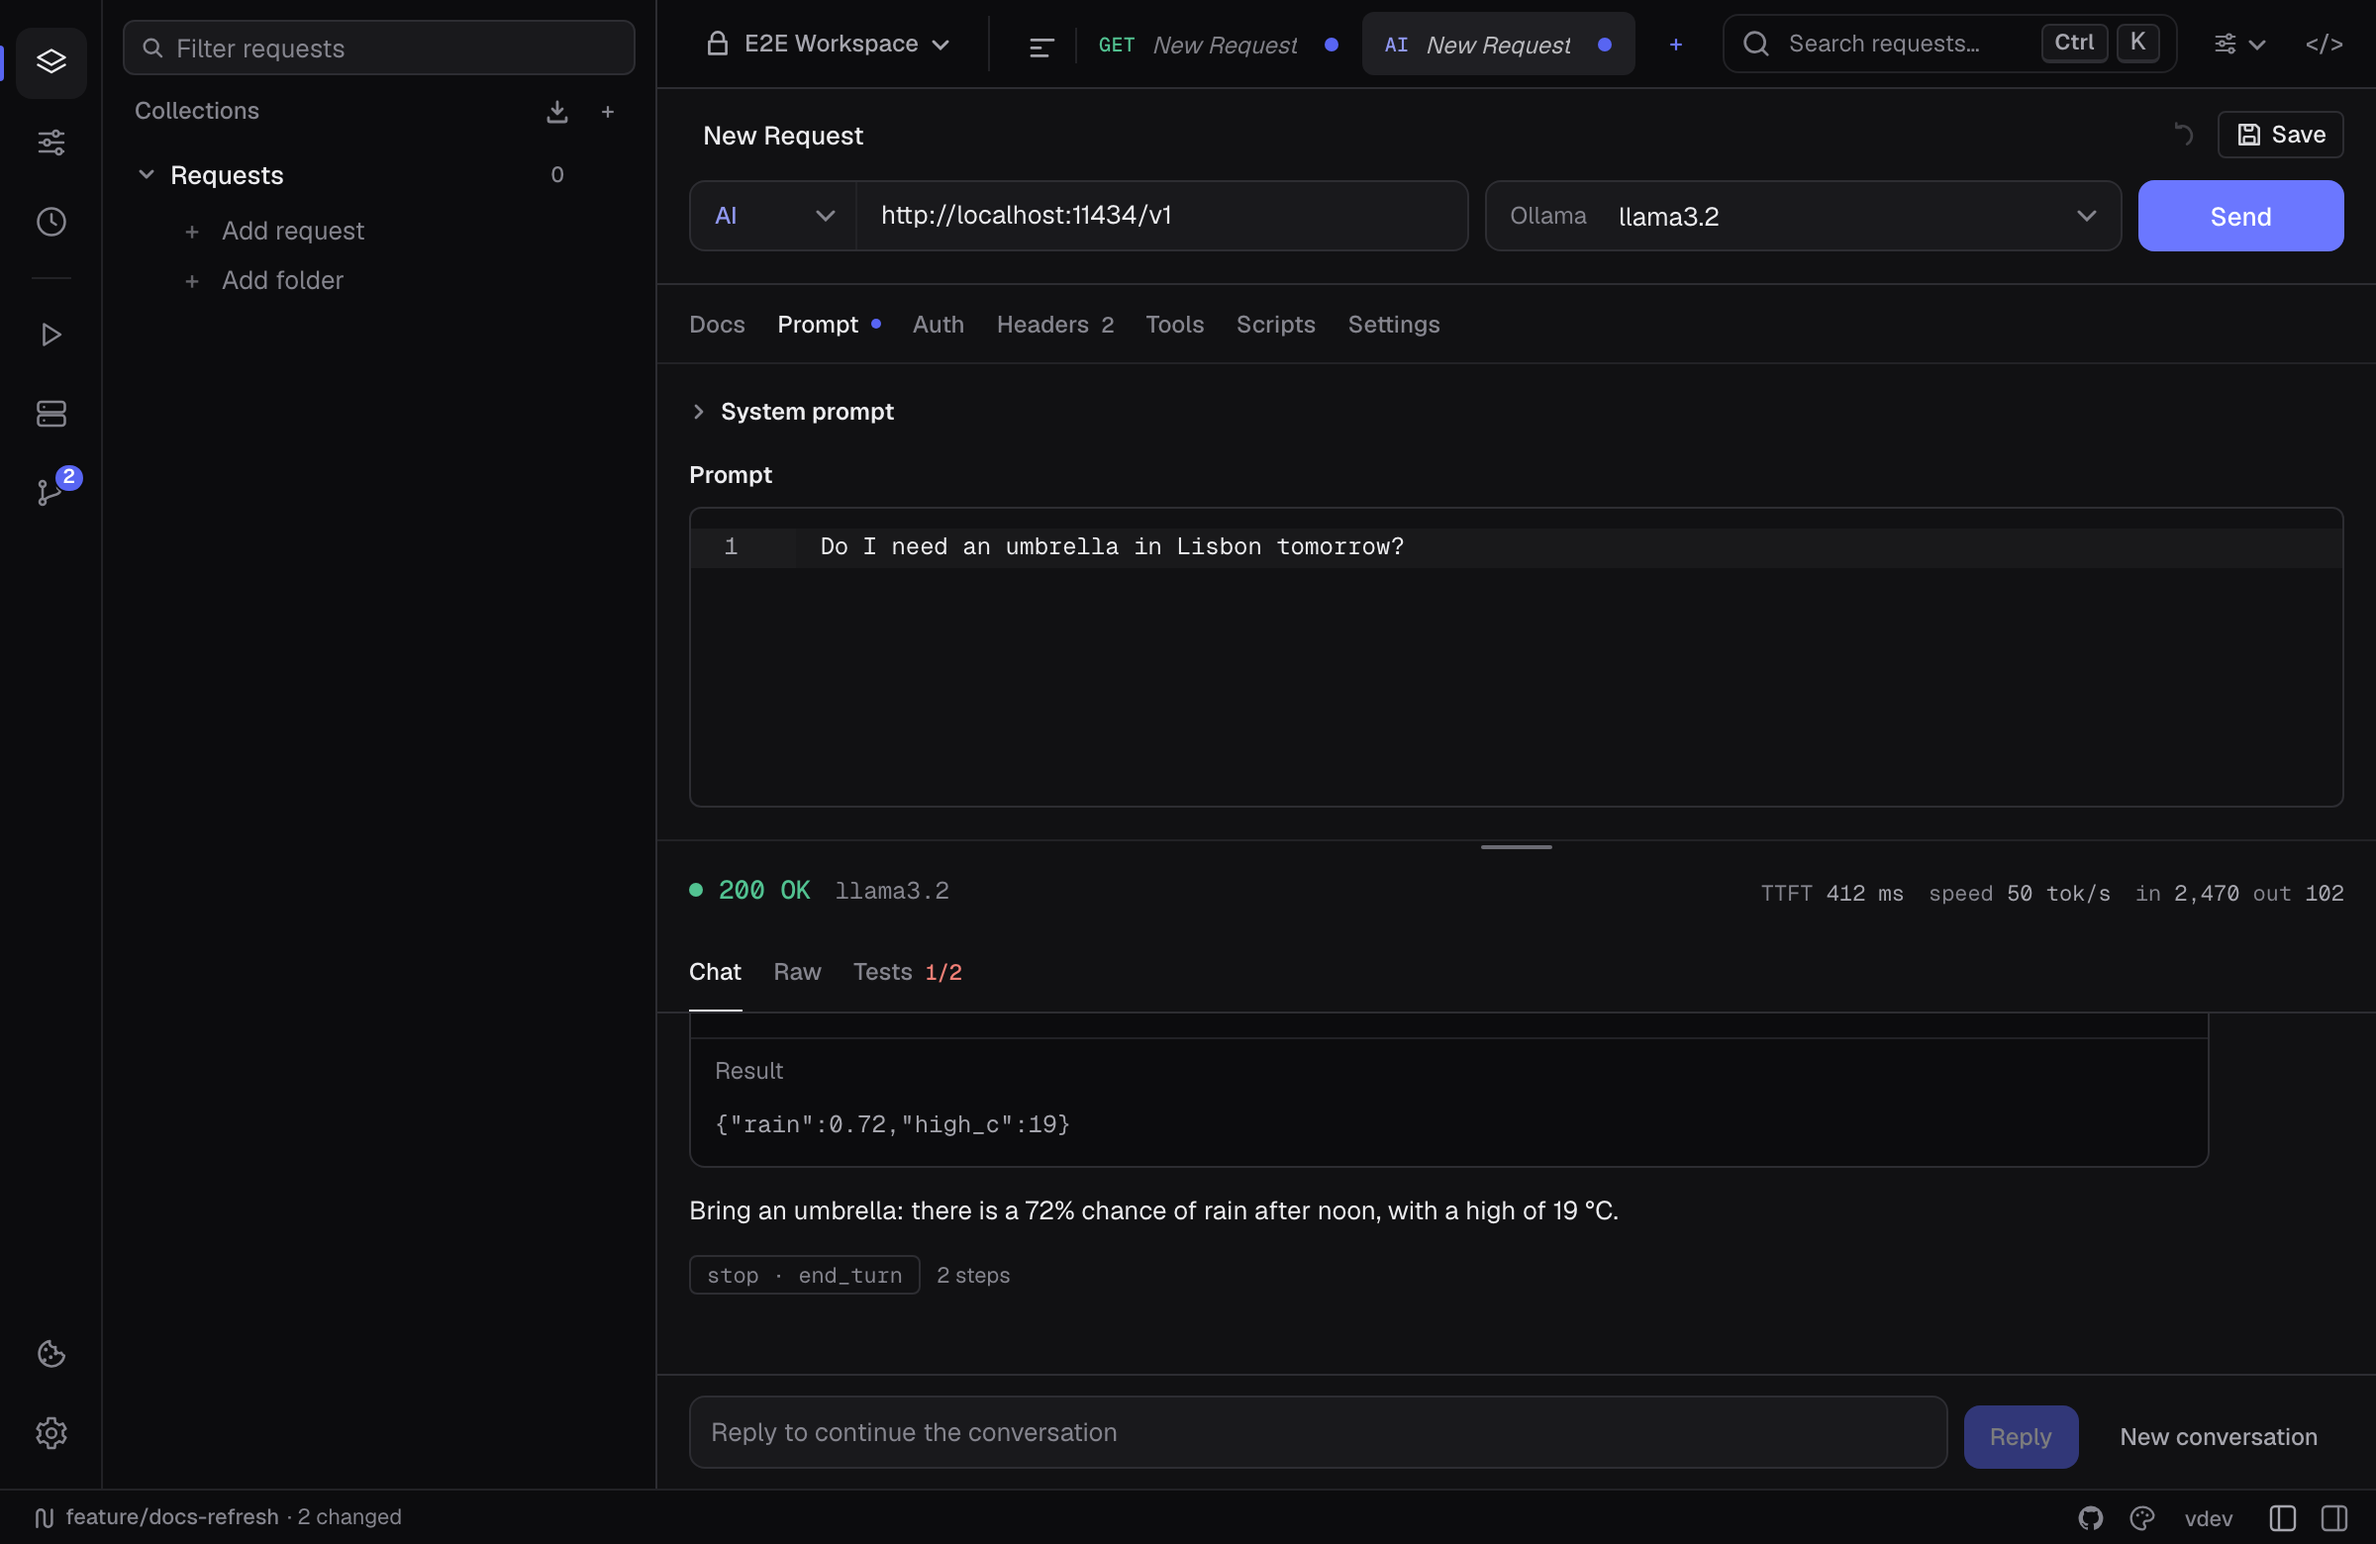
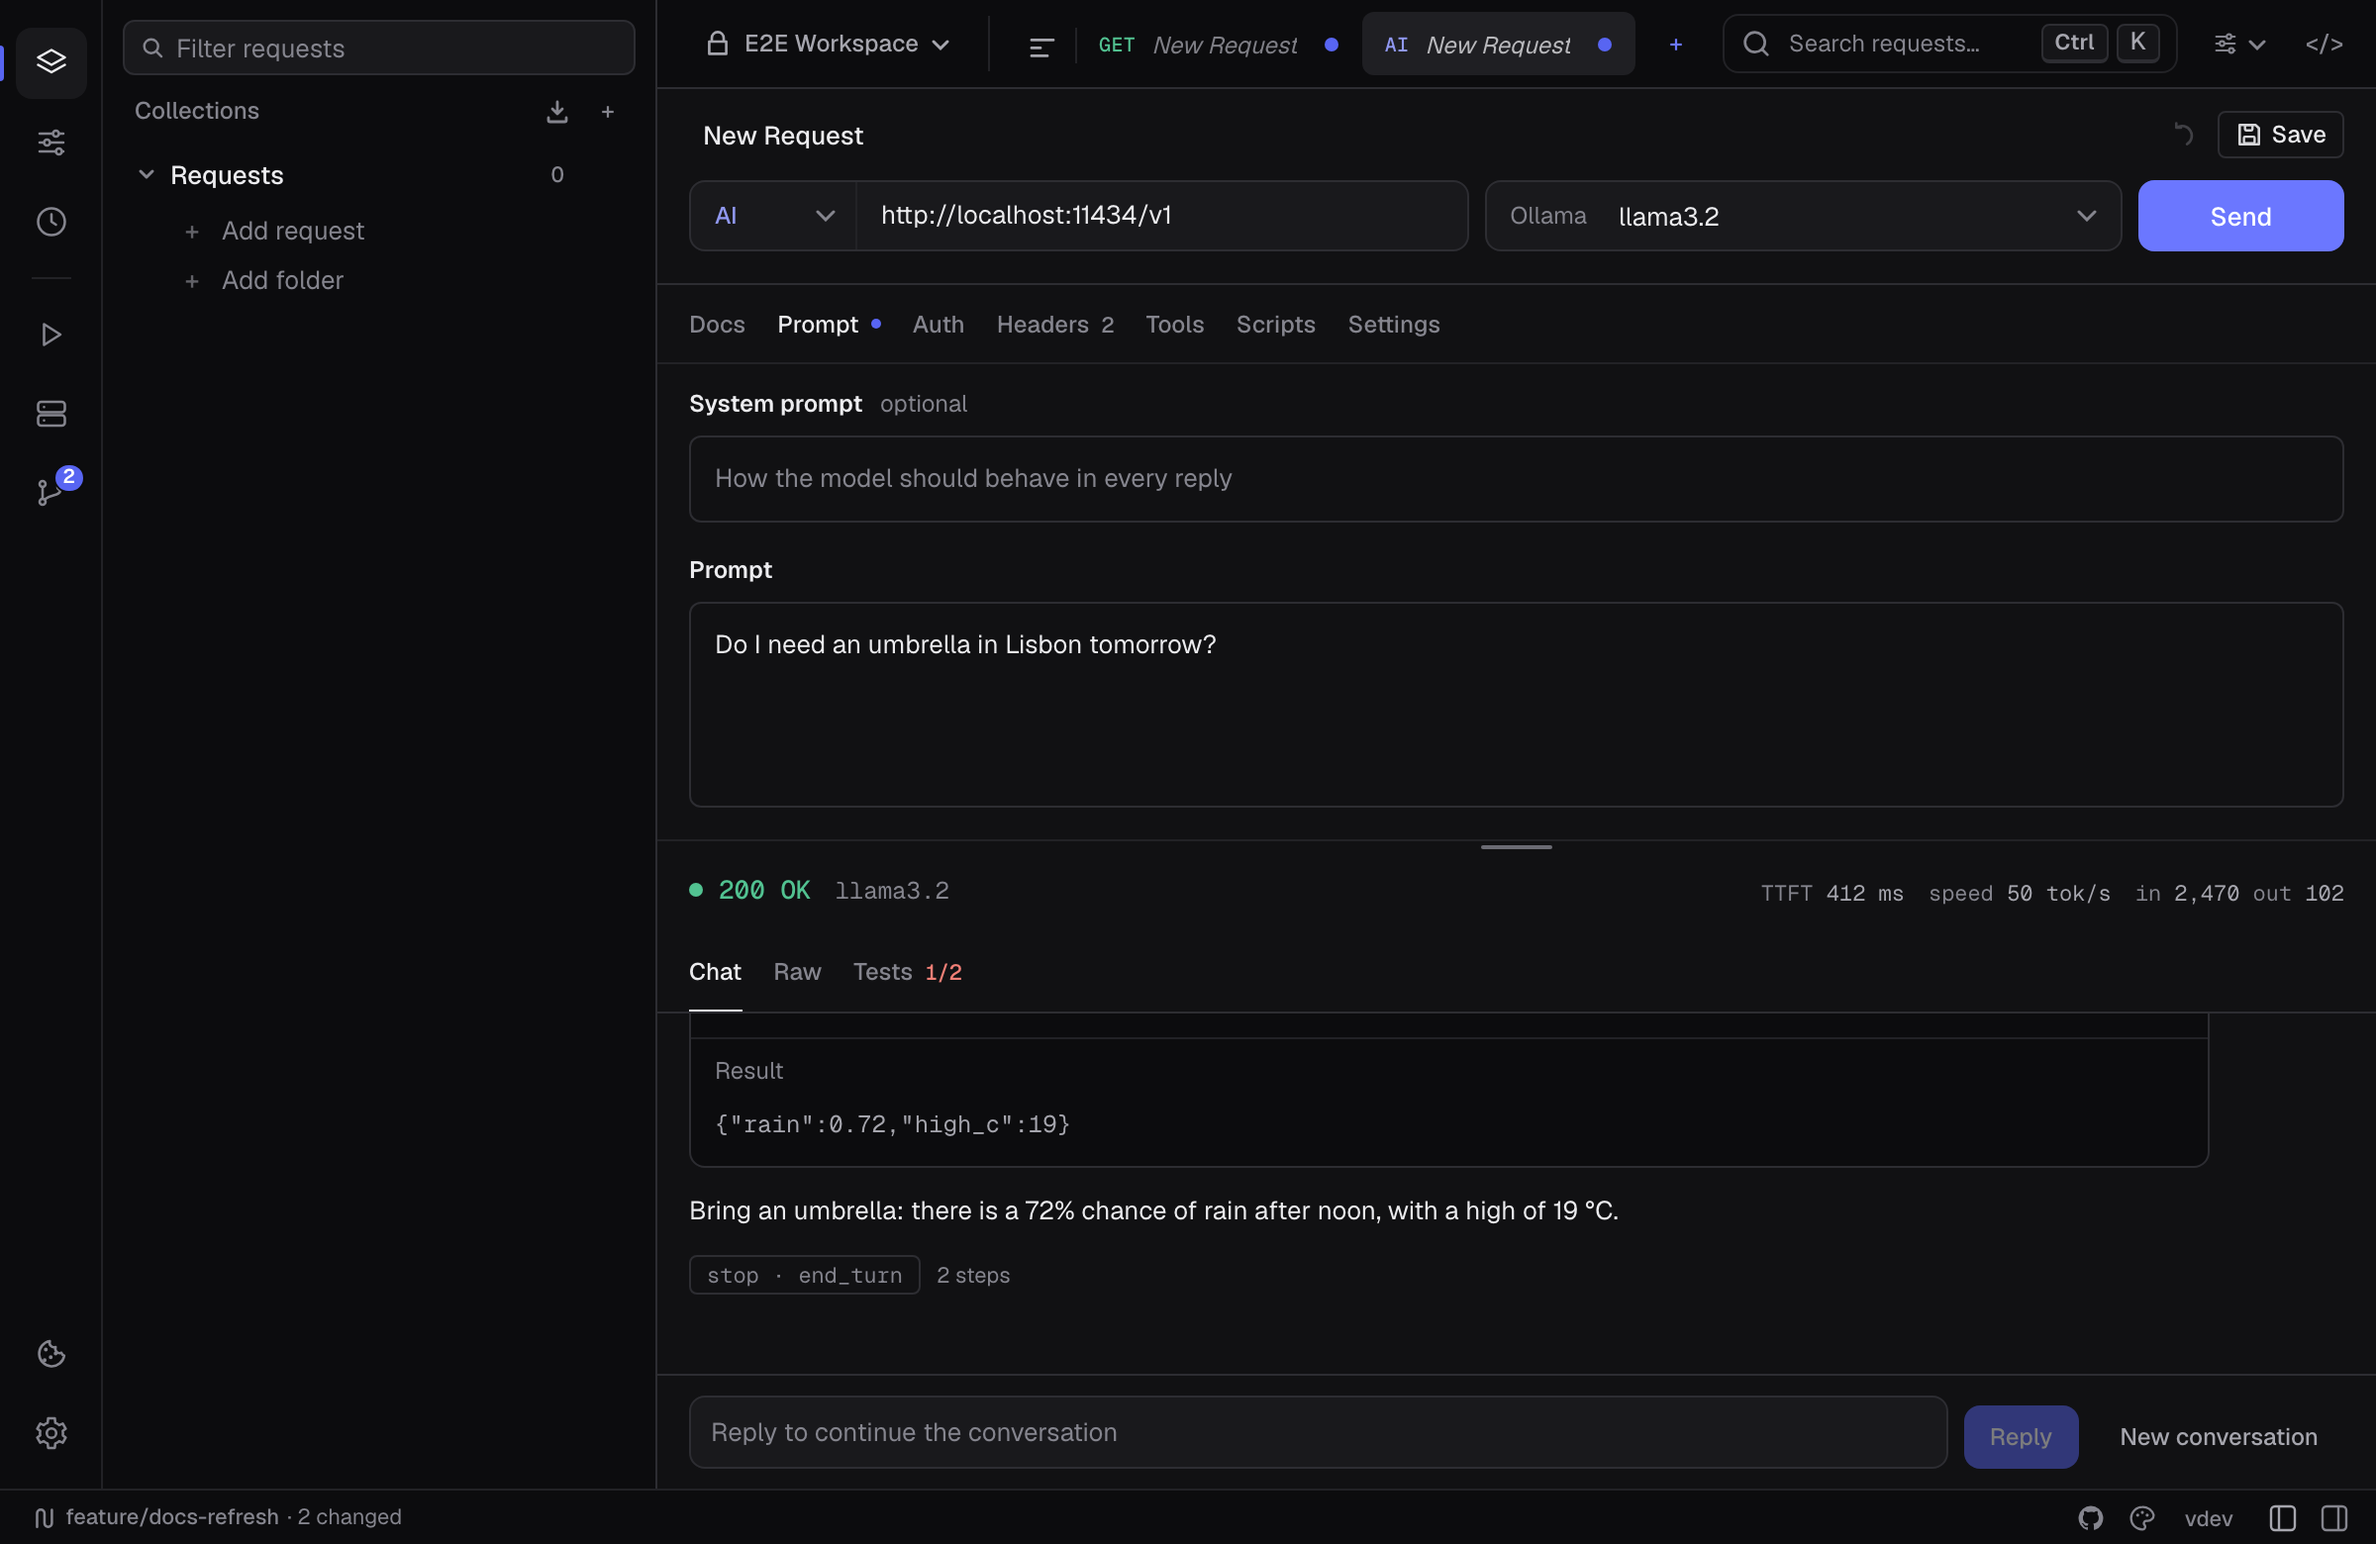
fix(ai): show the prompts as text fields, not code editors
The system prompt and the prompt were code editors with line numbers, a
highlighted line, a monospace font and no wrapping, and the system prompt
was a collapsible button that sat out of line with the prompt's label.
Both are now plain wrapping text fields in the interface font, one under
the other, with the system prompt marked optional.

Changed region(s): [[0.2812, 0.2462, 0.5938, 0.4], [0.3125, 0.4, 0.5, 0.4308]]

diff --git a/apps/desktop/frontend/src/lib/components/AiPromptTab.svelte b/apps/desktop/frontend/src/lib/components/AiPromptTab.svelte
@@ -1,32 +1,23 @@
 <script lang="ts">
   import CodeEditor from '../CodeEditor.svelte';
   import { vm } from '../stores/app.svelte';
-
-  let systemOpen = $state(Boolean(vm.aiSystem.trim()));
 </script>
 
 <div class="ai-prompt">
-  <div class="ai-section" class:ai-section-collapsed={!systemOpen}>
-    <button class="btn btn-ghost btn-sm ai-section-toggle" type="button" aria-expanded={systemOpen} onclick={() => (systemOpen = !systemOpen)}>
-      <svg class:open={systemOpen} width="0.625rem" height="0.625rem" viewBox="0 0 10 10" fill="none" aria-hidden="true">
-        <path d="M3.5 2l3 3-3 3" stroke="currentColor" stroke-width="1.4" stroke-linecap="round" stroke-linejoin="round"/>
-      </svg>
-      <span class="ai-label">System prompt</span>
-      {#if !systemOpen && vm.aiSystem.trim()}<span class="ai-preview">{vm.aiSystem.trim()}</span>{/if}
-    </button>
-    {#if systemOpen}
-      <div class="ai-editor ai-editor-system">
-        <CodeEditor
-          bind:value={vm.aiSystem}
-          language="text"
-          minHeight="4.5rem"
-          maxHeight="10rem"
-          ariaLabel="System prompt"
-          variableSuggestions={vm.variableSuggestions}
-          placeholder="How the model should behave, for every message in the conversation"
-        />
-      </div>
-    {/if}
+  <div class="ai-section">
+    <span class="ai-label">System prompt <span class="ai-optional">optional</span></span>
+    <div class="ai-editor">
+      <CodeEditor
+        bind:value={vm.aiSystem}
+        language="text"
+        prose
+        minHeight="3.25rem"
+        maxHeight="8rem"
+        ariaLabel="System prompt"
+        variableSuggestions={vm.variableSuggestions}
+        placeholder="How the model should behave in every reply"
+      />
+    </div>
   </div>
 
   <div class="ai-section ai-section-grow">
@@ -35,11 +26,12 @@
       <CodeEditor
         bind:value={vm.aiPrompt}
         language="text"
+        prose
         fillHeight
         testId="ai-prompt-editor"
         ariaLabel="Prompt"
         variableSuggestions={vm.variableSuggestions}
-        placeholder={'Ask the model something. {{variables}} are filled in from the environment.'}
+        placeholder={'What to ask the model. {{variables}} come from the environment.'}
       />
     </div>
   </div>
@@ -49,7 +41,7 @@
   .ai-prompt {
     display: flex;
     flex-direction: column;
-    gap: var(--space-3);
+    gap: var(--space-4);
     height: 100%;
     min-height: 0;
     padding: var(--space-3) var(--space-4) var(--space-4);
@@ -64,40 +56,15 @@
   .ai-section-grow {
     flex: 1 1 auto;
   }
-  .ai-section-toggle {
-    display: flex;
-    align-self: flex-start;
-    justify-content: flex-start;
-    align-items: center;
-    gap: var(--space-1-5);
-    min-width: 0;
-    padding: 0;
-    border: none;
-    background: transparent;
-    color: var(--text);
-    text-align: left;
-    cursor: pointer;
-  }
-  .ai-section-toggle svg {
-    flex: none;
-    color: var(--text-3);
-    transition: transform var(--dur-fast);
-  }
-  .ai-section-toggle svg.open {
-    transform: rotate(90deg);
-  }
   .ai-label {
     color: var(--text);
     font-size: var(--text-label);
     font-weight: var(--weight-semibold);
   }
-  .ai-preview {
-    min-width: 0;
-    overflow: hidden;
+  .ai-optional {
+    margin-left: var(--space-1-5);
     color: var(--text-3);
-    font-size: var(--text-label);
-    text-overflow: ellipsis;
-    white-space: nowrap;
+    font-weight: var(--weight-regular);
   }
   .ai-editor {
     min-height: 0;
@@ -105,14 +72,12 @@
     border-radius: var(--radius-md);
     overflow: hidden;
   }
+  .ai-editor:focus-within {
+    border-color: var(--accent);
+  }
   .ai-editor-prompt {
     flex: 1 1 auto;
     display: flex;
     flex-direction: column;
-  }
-  @media (prefers-reduced-motion: reduce) {
-    .ai-section-toggle svg {
-      transition: none;
-    }
   }
 </style>

diff --git a/apps/desktop/frontend/src/lib/CodeEditor.svelte b/apps/desktop/frontend/src/lib/CodeEditor.svelte
@@ -26,6 +26,7 @@
     maxHeight = '18.75rem',
     fillHeight = false,
     compact = false,
+    prose = false,
     testId = '',
     ariaLabel = '',
     variableSuggestions = [],
@@ -40,6 +41,7 @@
     maxHeight?: string;
     fillHeight?: boolean;
     compact?: boolean;
+    prose?: boolean;
     testId?: string;
     ariaLabel?: string;
     variableSuggestions?: VariableSuggestion[];
@@ -63,8 +65,8 @@
     '&': {
       backgroundColor: 'transparent',
       color: 'var(--text)',
-      fontSize: 'var(--text-code)',
-      fontFamily: 'var(--font-mono, ui-monospace, monospace)',
+      fontSize: prose ? 'var(--text-body)' : 'var(--text-code)',
+      fontFamily: prose ? 'var(--font-ui)' : 'var(--font-mono, ui-monospace, monospace)',
       height: fillHeight ? '100%' : 'auto',
     },
     '.cm-content': {
@@ -561,14 +563,11 @@
 
   function buildExtensions(lang: Lang) {
     return [
-      lineNumbers(),
-      foldGutter(),
-      highlightActiveLineGutter(),
-      highlightActiveLine(),
+      ...(prose
+        ? [EditorView.lineWrapping]
+        : [lineNumbers(), foldGutter(), highlightActiveLineGutter(), highlightActiveLine(), bracketMatching(), closeBrackets()]),
       history(),
       indentOnInput(),
-      bracketMatching(),
-      closeBrackets(),
       autocompletion({ override: [variableCompletionSource] }),
       commentDecorationPlugin,
       kurloLinter,
